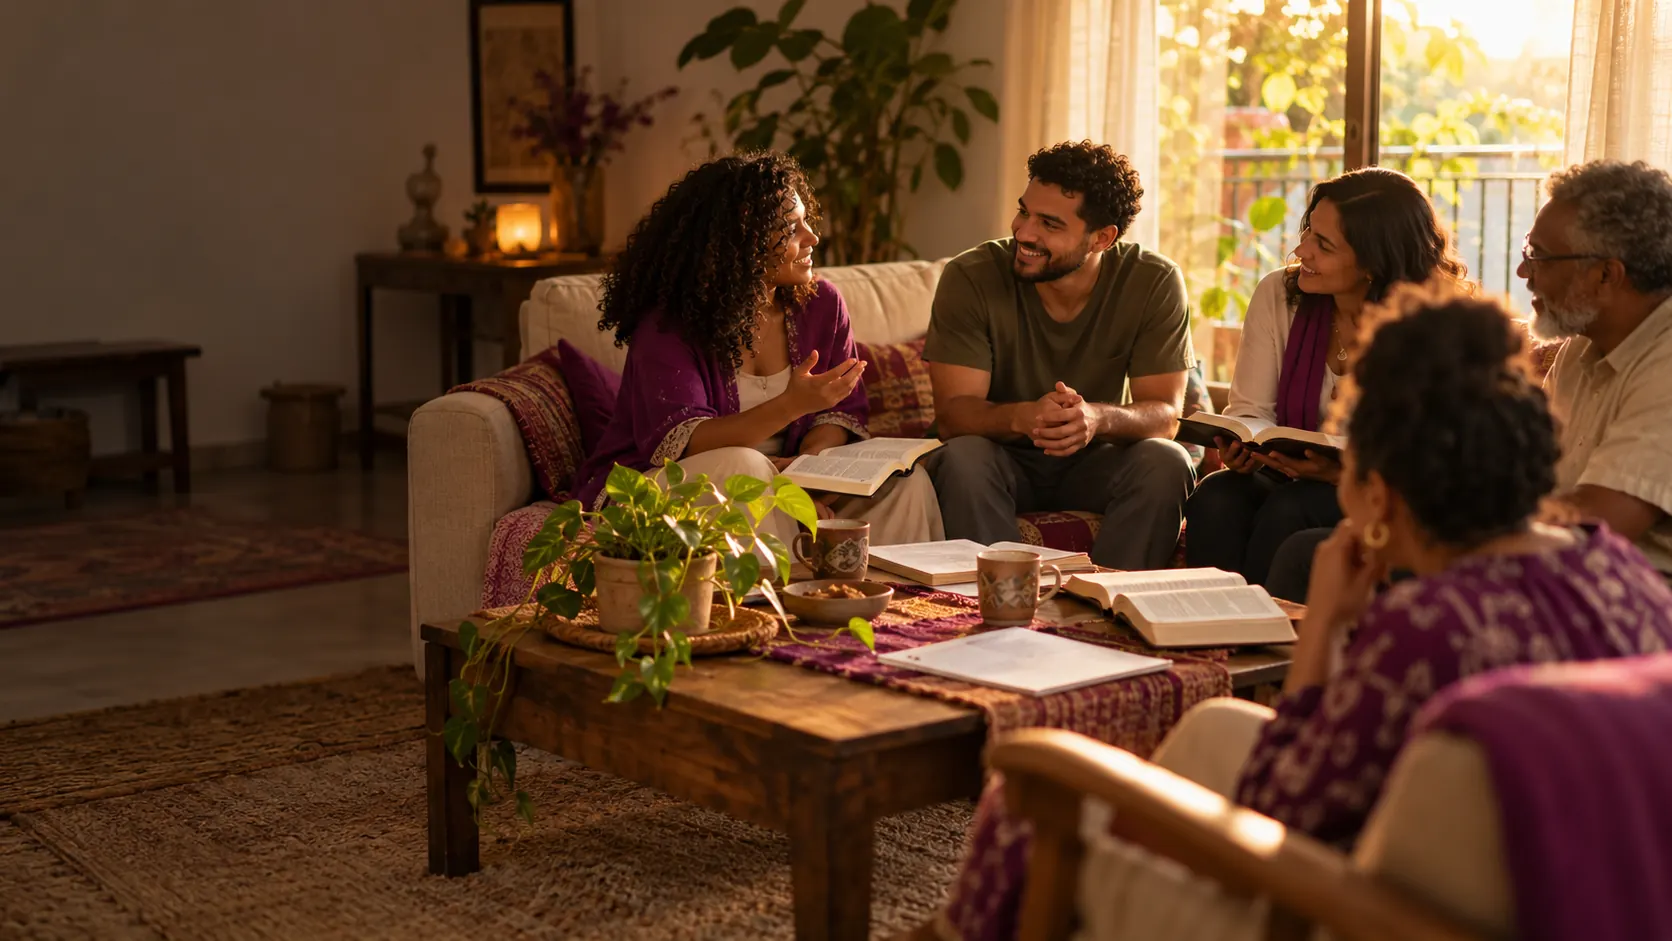
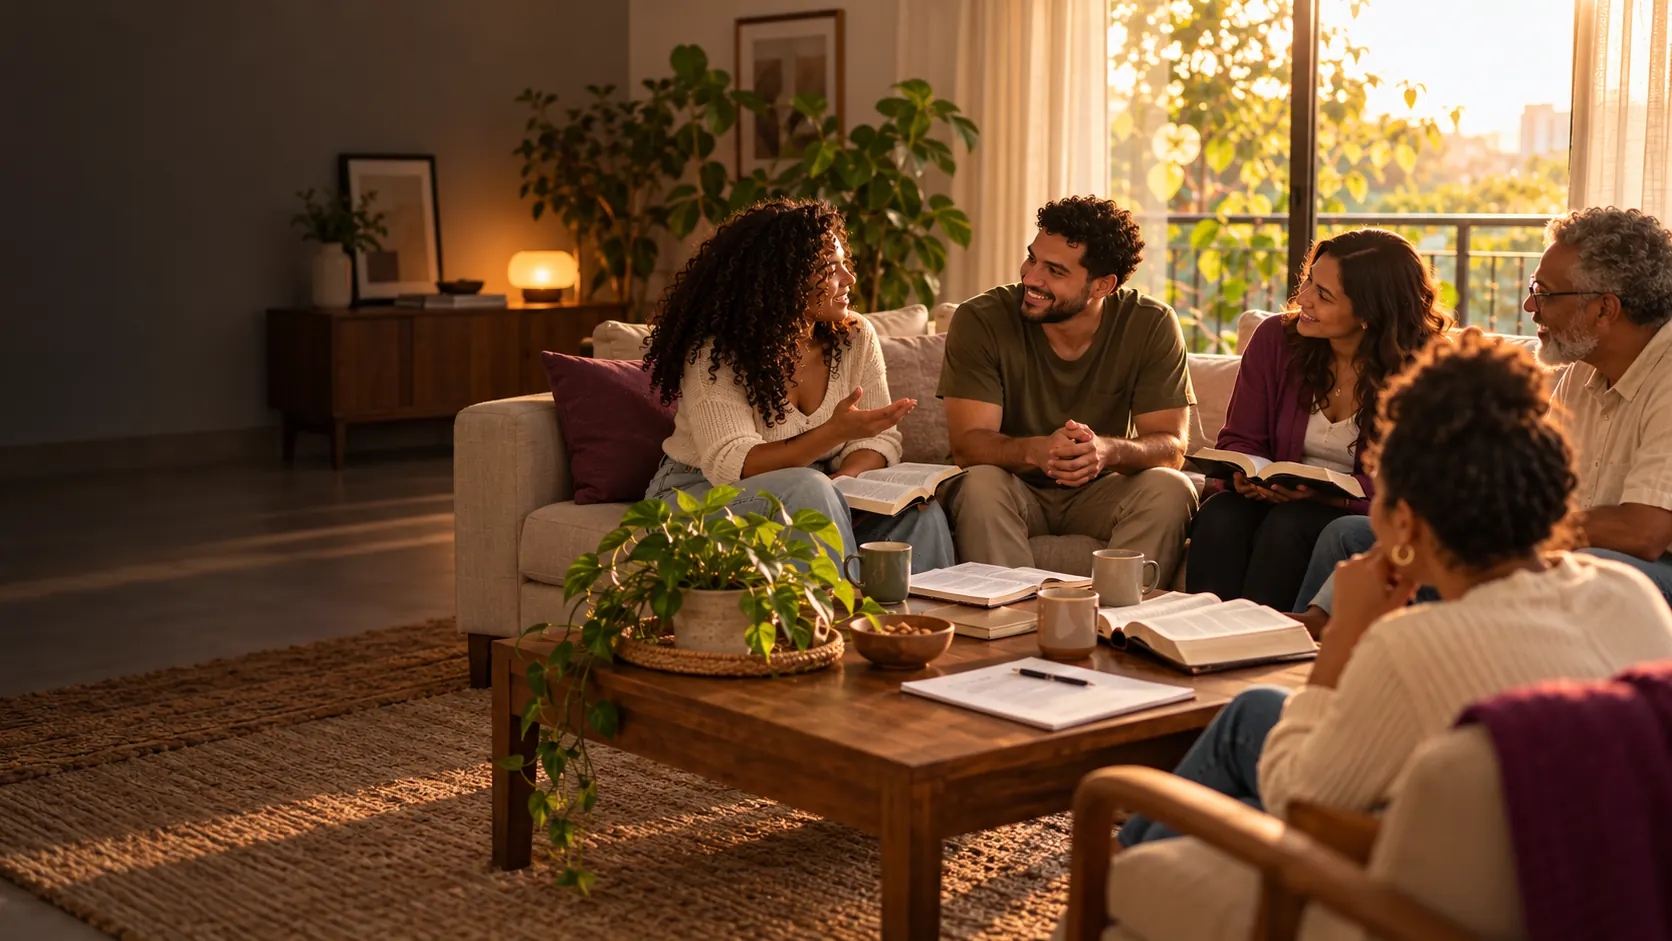
New hero photos and illustrations in the feature cards
- Hero photos replaced with the new versions (WebP, about 120 KB each)
- Each feature card gets its own illustration (WebP, about 20 KB each)

diff --git a/src/routes/index.tsx b/src/routes/index.tsx
@@ -17,6 +17,12 @@ import { useConfigPublica } from "@/hooks/use-config-publica";
 import logo from "@/assets/casadelidia-retangular-header.png";
 import heroFoto from "@/assets/hero-celula.webp";
 import heroFotoCelular from "@/assets/hero-celula-cel.webp";
+import imgRecurso1 from "@/assets/recurso-1.webp";
+import imgRecurso2 from "@/assets/recurso-2.webp";
+import imgRecurso3 from "@/assets/recurso-3.webp";
+import imgRecurso4 from "@/assets/recurso-4.webp";
+import imgRecurso5 from "@/assets/recurso-5.webp";
+import imgRecurso6 from "@/assets/recurso-6.webp";
 import printPasso1 from "@/assets/como-funciona-1.webp";
 import printPasso2 from "@/assets/como-funciona-2.webp";
 import printPasso3 from "@/assets/como-funciona-3.webp";
@@ -156,26 +162,32 @@ const steps = [
 
 const features = [
   {
+    img: imgRecurso1,
     title: "Funciona sem legenda",
     text: "Se o vídeo do culto não tem legenda, a transcrição é feita automaticamente.",
   },
   {
+    img: imgRecurso2,
     title: "Também a partir do esboço",
     text: "Sem vídeo do culto? Cole o esboço ou as anotações da pregação e a IA monta o roteiro a partir desse texto.",
   },
   {
+    img: imgRecurso3,
     title: "Modelos personalizáveis",
     text: "Você define as seções do roteiro do jeito que a sua igreja usa.",
   },
   {
+    img: imgRecurso4,
     title: "Editor com refazer por parte",
     text: "Ajuste o texto e peça para refazer só um trecho do roteiro.",
   },
   {
+    img: imgRecurso5,
     title: "Exportação em Word",
     text: "Baixe em .docx e compartilhe com a liderança.",
   },
   {
+    img: imgRecurso6,
     title: "Aviso por e-mail",
     text: "Você recebe um e-mail quando o culto de domingo já pode virar roteiro.",
   },
@@ -631,8 +643,16 @@ function Landing() {
           <div className="mt-10 grid gap-5 sm:grid-cols-2 lg:grid-cols-3">
             {features.map((f) => (
               <div key={f.title} className="surface-card p-7">
-                <span aria-hidden="true" className="block size-2.5 rounded-full bg-accent" />
-                <h3 className="mt-4 text-lg">{f.title}</h3>
+                <img
+                  src={f.img}
+                  alt=""
+                  aria-hidden="true"
+                  width={384}
+                  height={384}
+                  loading="lazy"
+                  className="-ml-2 -mt-2 size-24 object-contain sm:size-28"
+                />
+                <h3 className="mt-3 text-lg">{f.title}</h3>
                 <p className="mt-2 leading-relaxed text-muted-foreground">{f.text}</p>
               </div>
             ))}
